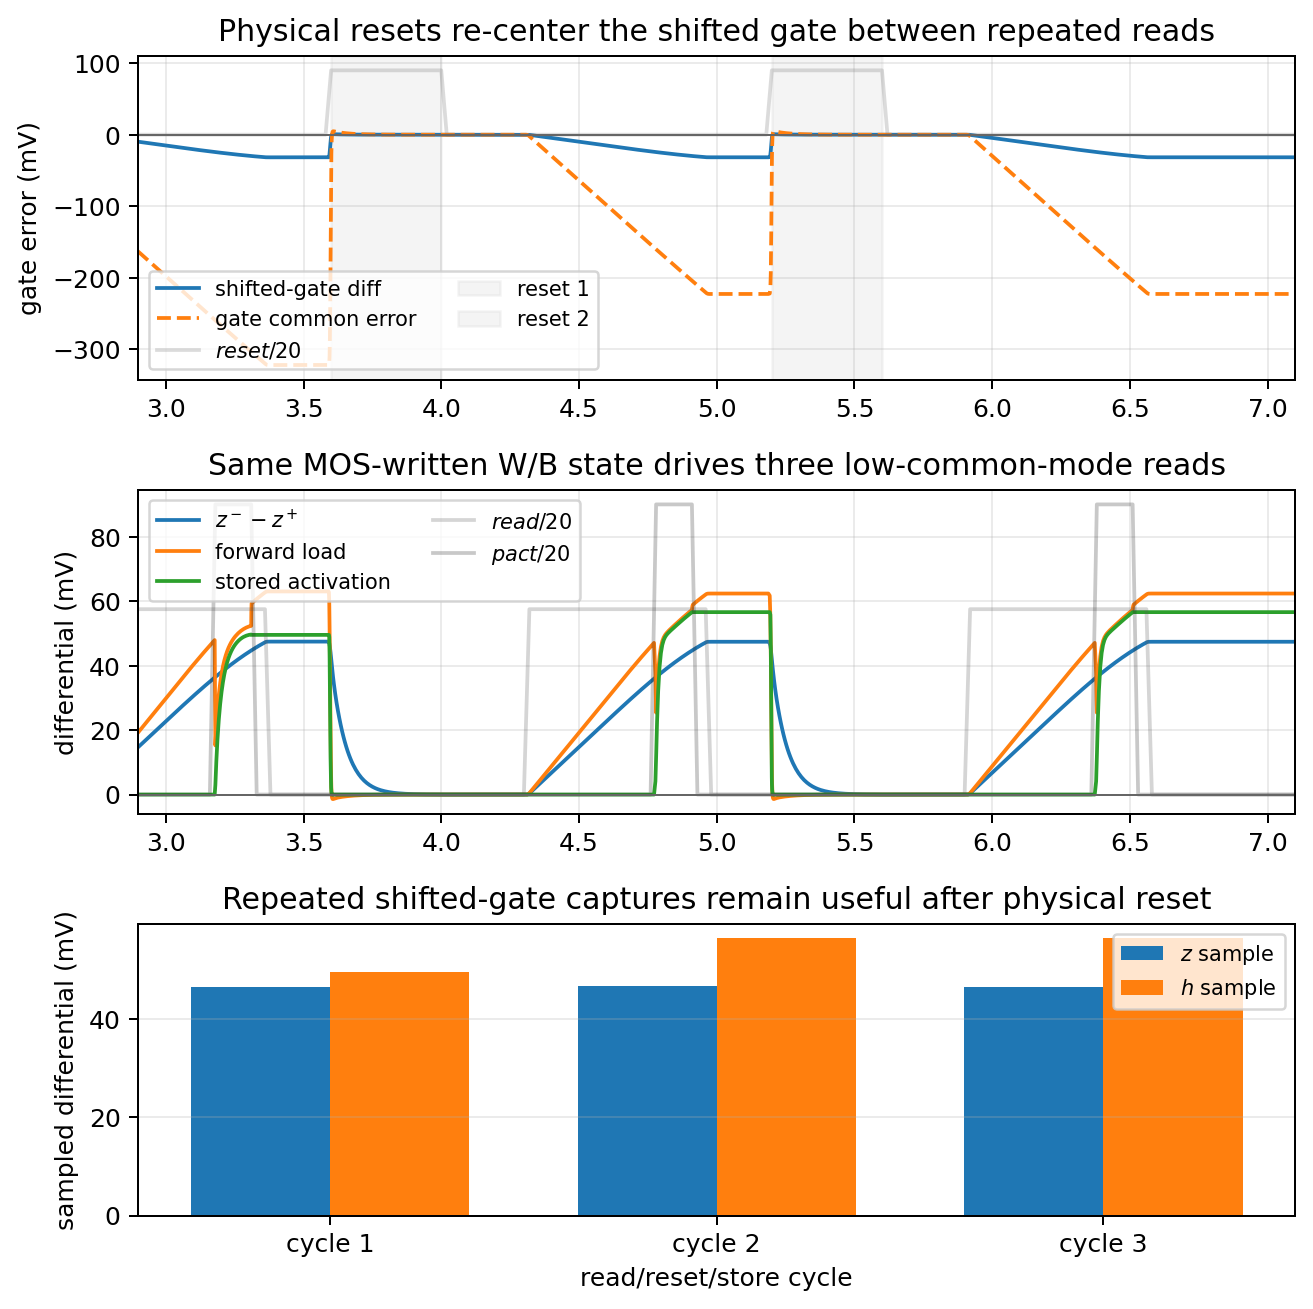
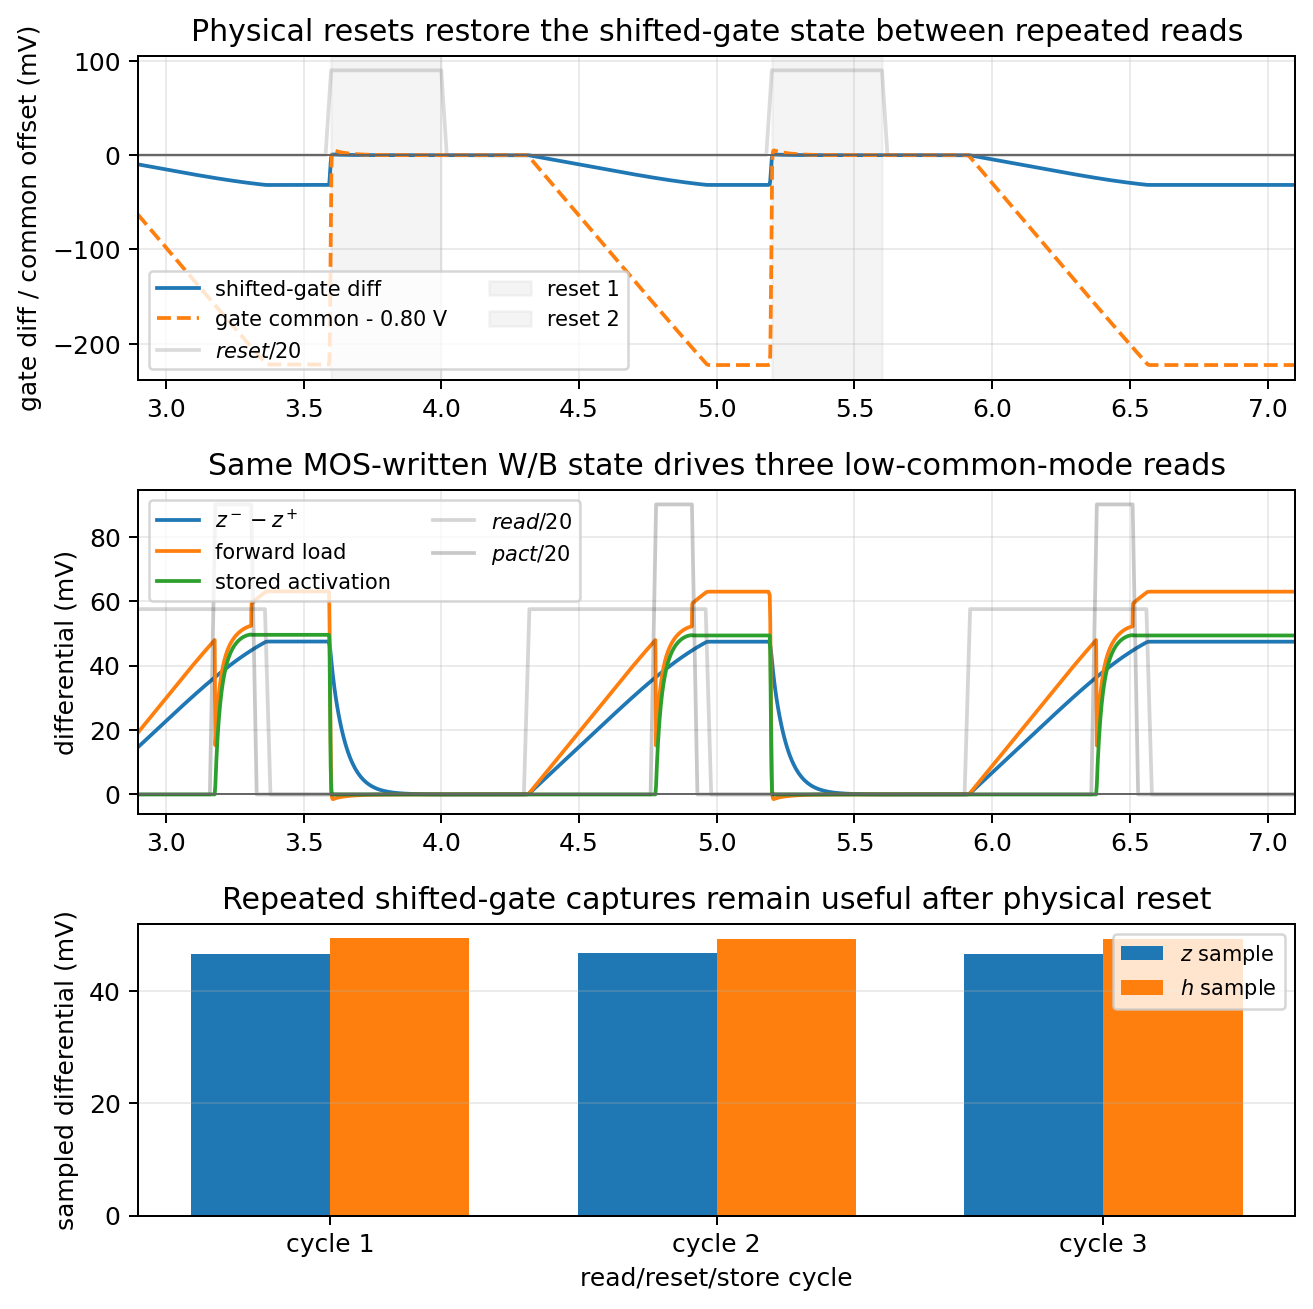
Show tuned shifted-gate reset reuse

diff --git a/spice/run_mos_cell_characterization.py b/spice/run_mos_cell_characterization.py
@@ -9565,6 +9565,7 @@ quit
     shift_reuse_common_weight = shift_reuse_common_cols[7] - shift_reuse_common_cols[8]
     shift_reuse_common_bias = shift_reuse_common_cols[9] - shift_reuse_common_cols[10]
     shift_reuse_common_preact = shift_reuse_common_cols[12] - shift_reuse_common_cols[11]
+    shift_reuse_common_load = shift_reuse_common_cols[14] - shift_reuse_common_cols[13]
     shift_reuse_common_store = shift_reuse_common_cols[16] - shift_reuse_common_cols[15]
     shift_reuse_common_z_samples = np.array([shrctat(ts, shift_reuse_common_preact) for ts in shift_reuse_z_times])
     shift_reuse_common_h_samples = np.array([shrctat(ts, shift_reuse_common_store) for ts in shift_reuse_h_times])
@@ -9574,6 +9575,8 @@ quit
     shift_reuse_common_gate_reset_common = np.array(
         [shrctat(ts, shift_reuse_common_gate_common) for ts in shift_reuse_reset_times]
     )
+    shift_reuse_common_z_reset = np.array([abs(shrctat(ts, shift_reuse_common_preact)) for ts in shift_reuse_reset_times])
+    shift_reuse_common_h_reset = np.array([abs(shrctat(ts, shift_reuse_common_store)) for ts in shift_reuse_reset_times])
     shift_reuse_common_weight_after_write = shrctat(2.55e-6, shift_reuse_common_weight)
     shift_reuse_common_bias_after_write = shrctat(2.55e-6, shift_reuse_common_bias)
     shift_reuse_common_weight_drift = (
@@ -9603,6 +9606,14 @@ quit
     require(
         np.max(np.abs(shift_reuse_common_gate_reset_common - 0.80)) < 0.005,
         "0.80 V reset-common reuse deck should restore the tuned gate common mode between reads",
+    )
+    require(
+        np.max(shift_reuse_common_z_reset) < 0.001,
+        "0.80 V reset-common reuse deck should clear preactivation state between reads",
+    )
+    require(
+        np.max(shift_reuse_common_h_reset) < 0.001,
+        "0.80 V reset-common reuse deck should clear activation state between reads",
     )
     require(
         abs(shift_reuse_common_weight_drift) < 1e-5,
@@ -12991,31 +13002,54 @@ quit
         figsize=(7.4, 7.4),
         gridspec_kw={"height_ratios": [1.0, 1.0, 0.9]},
     )
-    shift_reuse_axes[0].plot(1e6 * shrpt, 1e3 * shift_reuse_gate_diff, label="shifted-gate diff")
-    shift_reuse_axes[0].plot(1e6 * shrpt, 1e3 * (shift_reuse_gate_common - 0.90), "--", label="gate common error")
-    shift_reuse_axes[0].plot(1e6 * shrpt, 1e3 * shift_reuse_cols[20] / 20.0, color="0.45", alpha=0.25, label="$reset/20$")
+    shift_reuse_axes[0].plot(1e6 * shrct, 1e3 * shift_reuse_common_gate_diff, label="shifted-gate diff")
+    shift_reuse_axes[0].plot(
+        1e6 * shrct,
+        1e3 * (shift_reuse_common_gate_common - 0.80),
+        "--",
+        label="gate common - 0.80 V",
+    )
+    shift_reuse_axes[0].plot(
+        1e6 * shrct,
+        1e3 * shift_reuse_common_cols[20] / 20.0,
+        color="0.45",
+        alpha=0.25,
+        label="$reset/20$",
+    )
     for start_us, end_us, label in [(3.60, 4.00, "reset 1"), (5.20, 5.60, "reset 2")]:
         shift_reuse_axes[0].axvspan(start_us, end_us, color="0.75", alpha=0.16, label=label)
     shift_reuse_axes[0].axhline(0, color="0.4", linewidth=0.8)
     shift_reuse_axes[0].set_xlim(2.9, 7.1)
-    shift_reuse_axes[0].set_ylabel("gate error (mV)")
-    shift_reuse_axes[0].set_title("Physical resets re-center the shifted gate between repeated reads")
+    shift_reuse_axes[0].set_ylabel("gate diff / common offset (mV)")
+    shift_reuse_axes[0].set_title("Physical resets restore the shifted-gate state between repeated reads")
     shift_reuse_axes[0].grid(True, alpha=0.25)
     shift_reuse_axes[0].legend(loc="lower left", ncol=2, fontsize="small")
-    shift_reuse_axes[1].plot(1e6 * shrpt, 1e3 * shift_reuse_preact, label="$z^- - z^+$")
-    shift_reuse_axes[1].plot(1e6 * shrpt, 1e3 * shift_reuse_load, label="forward load")
-    shift_reuse_axes[1].plot(1e6 * shrpt, 1e3 * shift_reuse_store, label="stored activation")
-    shift_reuse_axes[1].plot(1e6 * shrpt, 1e3 * shift_reuse_cols[23] / 20.0, color="0.35", alpha=0.25, label="$read/20$")
-    shift_reuse_axes[1].plot(1e6 * shrpt, 1e3 * shift_reuse_cols[24] / 20.0, color="0.15", alpha=0.25, label="$pact/20$")
+    shift_reuse_axes[1].plot(1e6 * shrct, 1e3 * shift_reuse_common_preact, label="$z^- - z^+$")
+    shift_reuse_axes[1].plot(1e6 * shrct, 1e3 * shift_reuse_common_load, label="forward load")
+    shift_reuse_axes[1].plot(1e6 * shrct, 1e3 * shift_reuse_common_store, label="stored activation")
+    shift_reuse_axes[1].plot(
+        1e6 * shrct,
+        1e3 * shift_reuse_common_cols[23] / 20.0,
+        color="0.35",
+        alpha=0.25,
+        label="$read/20$",
+    )
+    shift_reuse_axes[1].plot(
+        1e6 * shrct,
+        1e3 * shift_reuse_common_cols[24] / 20.0,
+        color="0.15",
+        alpha=0.25,
+        label="$pact/20$",
+    )
     shift_reuse_axes[1].axhline(0, color="0.4", linewidth=0.8)
     shift_reuse_axes[1].set_xlim(2.9, 7.1)
     shift_reuse_axes[1].set_ylabel("differential (mV)")
     shift_reuse_axes[1].set_title("Same MOS-written W/B state drives three low-common-mode reads")
     shift_reuse_axes[1].grid(True, alpha=0.25)
     shift_reuse_axes[1].legend(loc="upper left", ncol=2, fontsize="small")
-    shift_reuse_x = np.arange(len(shift_reuse_h_samples))
-    shift_reuse_axes[2].bar(shift_reuse_x - 0.18, 1e3 * shift_reuse_z_samples, width=0.36, label="$z$ sample")
-    shift_reuse_axes[2].bar(shift_reuse_x + 0.18, 1e3 * shift_reuse_h_samples, width=0.36, label="$h$ sample")
+    shift_reuse_x = np.arange(len(shift_reuse_common_h_samples))
+    shift_reuse_axes[2].bar(shift_reuse_x - 0.18, 1e3 * shift_reuse_common_z_samples, width=0.36, label="$z$ sample")
+    shift_reuse_axes[2].bar(shift_reuse_x + 0.18, 1e3 * shift_reuse_common_h_samples, width=0.36, label="$h$ sample")
     shift_reuse_axes[2].axhline(0, color="0.4", linewidth=0.8)
     shift_reuse_axes[2].set_xticks(shift_reuse_x)
     shift_reuse_axes[2].set_xticklabels(["cycle 1", "cycle 2", "cycle 3"])

diff --git a/docs/spicenn_progress_note.tex b/docs/spicenn_progress_note.tex
@@ -1997,18 +1997,21 @@ must satisfy before it can replace the current behavioral prototype.
   shifted-gate headroom fix.  This deck starts from one MOS-written \(W/B\)
   state at \(V_{ZCM}=0.75\) V, uses the selected \(10\) pF coupling into
   \(5\) pF shifted-gate capacitors, and runs three read/forward-store cycles
-  with real reset pulses between cycles.  The three read preactivation samples
-  are \(46.625,46.823,\) and \(46.582\) mV; the stored activation samples are
-  \(49.528,56.585,\) and \(56.585\) mV.  The reset pulses clear the shifted
-  gate differential between reads to \(0.000466\) and \(0.000456\) mV, return
-  the gate common mode to \(0.900003\) V, leave only about \(0.019\) mV of
+  with real reset pulses between cycles.  This is the tuned \(0.80\) V
+  reset-common version from Fig.~\ref{fig:mos-hidden-writer-restored-gate-hybrid-update-forward-guard-forward-pair-96u-shifted-gate-reset-common-ngspice},
+  not the older \(0.90\) V baseline that produced the repeatable capture bump.
+  The three read preactivation samples remain useful at
+  \(46.625,46.823,\) and \(46.582\) mV; the stored activation samples are now
+  repeatable at \(49.528,49.323,\) and \(49.323\) mV.  The reset pulses clear
+  the shifted-gate differential between reads to about \(0.0004\) mV, return
+  the gate common mode to \(0.800003\) V, leave only about \(0.019\) mV of
   summing-node residue, and clear the activation store to numerical zero.
   The persistent trainable state is not read-disturbed: over the repeated
   cycles the \(W\) and \(B\) differentials drift by only \(0.003\) and
-  \(0.002\,\mu\mathrm{V}\).  The later captures are higher than the first
-  because the reset path adds a small repeatable charge/feedthrough offset, so
-  reset sizing is still worth tuning, but the circuit now demonstrates useful
-  repeated low-common-mode operation without Python capacitor forcing.}
+  \(0.002\,\mu\mathrm{V}\).  The headline reuse plot therefore now shows the
+  behavior expected from the tuned transistor reset path: repeated
+  low-common-mode operation without Python capacitor forcing and without the
+  old reset-common-mode feedthrough bump.}
   \label{fig:mos-hidden-writer-restored-gate-hybrid-update-forward-guard-forward-pair-96u-shifted-gate-repeated-reset-reuse-ngspice}
 \end{figure}
 

diff --git a/engineering_log.md b/engineering_log.md
@@ -2,6 +2,7 @@
 
 ## 2026-05-25
 
+- Updated the headline shifted-gate repeated-reset reuse plot to use the tuned \(0.80\) V reset common mode instead of continuing to plot the older \(0.90\) V baseline. The \(0.90\) V deck remains in the reset-common sweep as a regression case that proves the former bump, but the main repeated-reuse figure now shows the expected transistor path: \(z\) samples \(46.625/46.823/46.582\) mV and stored \(h\) samples \(49.528/49.323/49.323\) mV across three read/reset/store cycles, with shifted-gate differential residue about \(0.0004\) mV, reset common \(0.800003\) V, \(z/h\) reset residues about \(0.019/0.000\) mV, and \(W/B\) drift below the existing microvolt-scale limits.
 - Tuned the shifted-gate physical reset common mode after the reset-strength sweep showed the remaining activation error was not differential residue. The initialized-gate fixture begins readback near \(0.8007\) V gate common mode, while the physical reset deck had been forcing the shifted gates to \(0.900\) V. A new ngspice reset-common sweep from \(0.76\) to \(0.92\) V keeps post-reset gate differential below \(2\) mV everywhere, but moves the stored activation monotonically from \(28.692\) to \(57.794\) mV. The \(0.80\) V reset common reproduces the initialized-gate store at \(51.982\) mV versus \(52.154\) mV; the old \(0.90\) V target stores \(57.628\) mV. In the repeated-reset reuse deck, changing only the reset common from \(0.90\) to \(0.80\) V changes the three stored activations from \(49.528/56.585/56.585\) mV to \(49.528/49.323/49.323\) mV without disturbing \(W/B\). The fix is still transistor-level: the same complementary MOS reset switches clear the gate differential, but they now restore the shifted-gate common mode to the calibrated read point.
 - Added a shifted-gate reset feedthrough sizing sweep for the 96 um low-common-mode headroom fix. The first attempted 0.25x--4x sweep was flat because even 0.25x already cleared the deliberately bad shifted-gate differential to about 0.125 mV. Extending the sweep down to 0.02x exposed the actual transition: 0.02x leaves 67.196 mV of post-reset gate residue, 18.971 mV common-mode error, and overdrives the activation store to 186.251 mV; 0.05x is marginal at 5.358 mV residue and 67.830 mV stored activation; 0.10x and stronger clear below 0.244 mV residue and preserve a useful 57.6--57.9 mV stored activation. The remaining offset from the initialized shifted-gate result is about 5.5 mV for clearing sizes, so reset feedthrough is now a quantified small offset rather than an unbounded bad-initial-state path.
 - Extended the shifted-gate fine trim-code sensitivity check from a three-point \(\pm5\) mV probe to a five-point \(\pm10\) mV local linearity window. For the \(+30\) mV skew branch, \(-10/-5/0/+5/+10\) mV trim-code errors store \(27.720/37.348/46.972/56.589/66.200\) mV. For the \(-30\) mV skew branch, the same error sequence stores \(66.207/56.596/46.978/37.355/27.727\) mV. Both fitted slopes stay at about \(1.924\) mV activation per mV trim-code error with opposite signs. The calibration rule is now a local linear operating window, not just a single finite-difference sensitivity.
